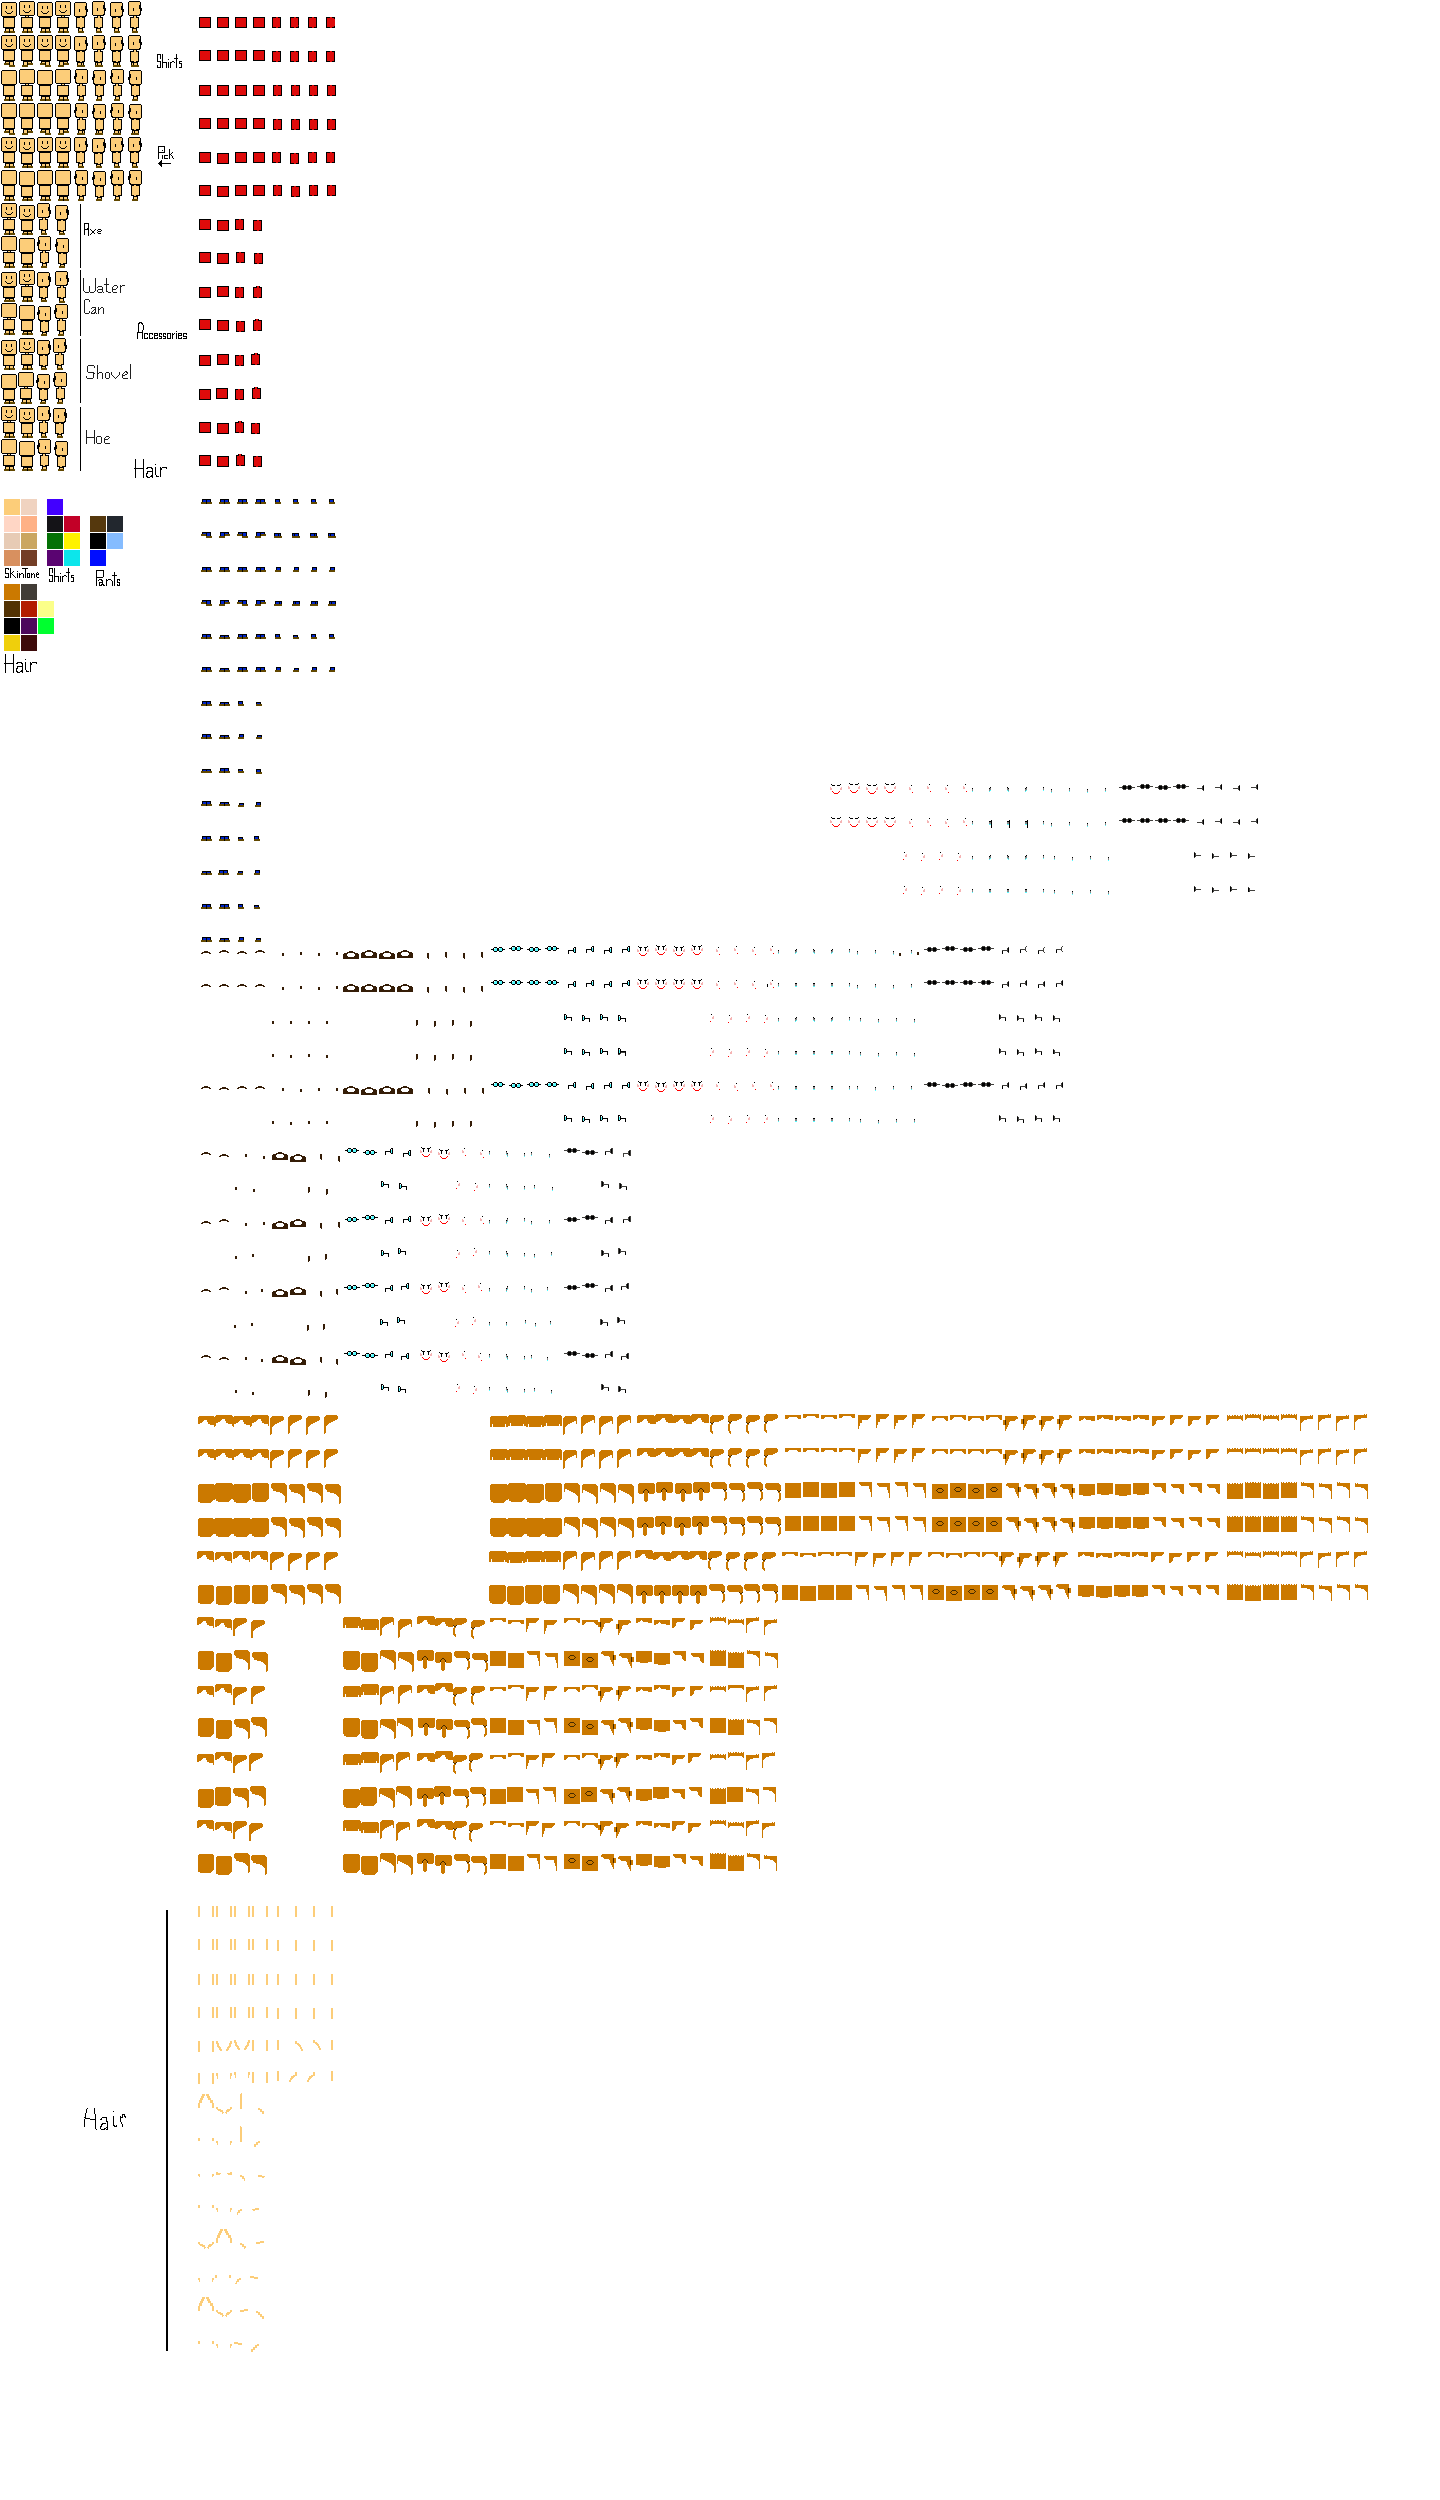
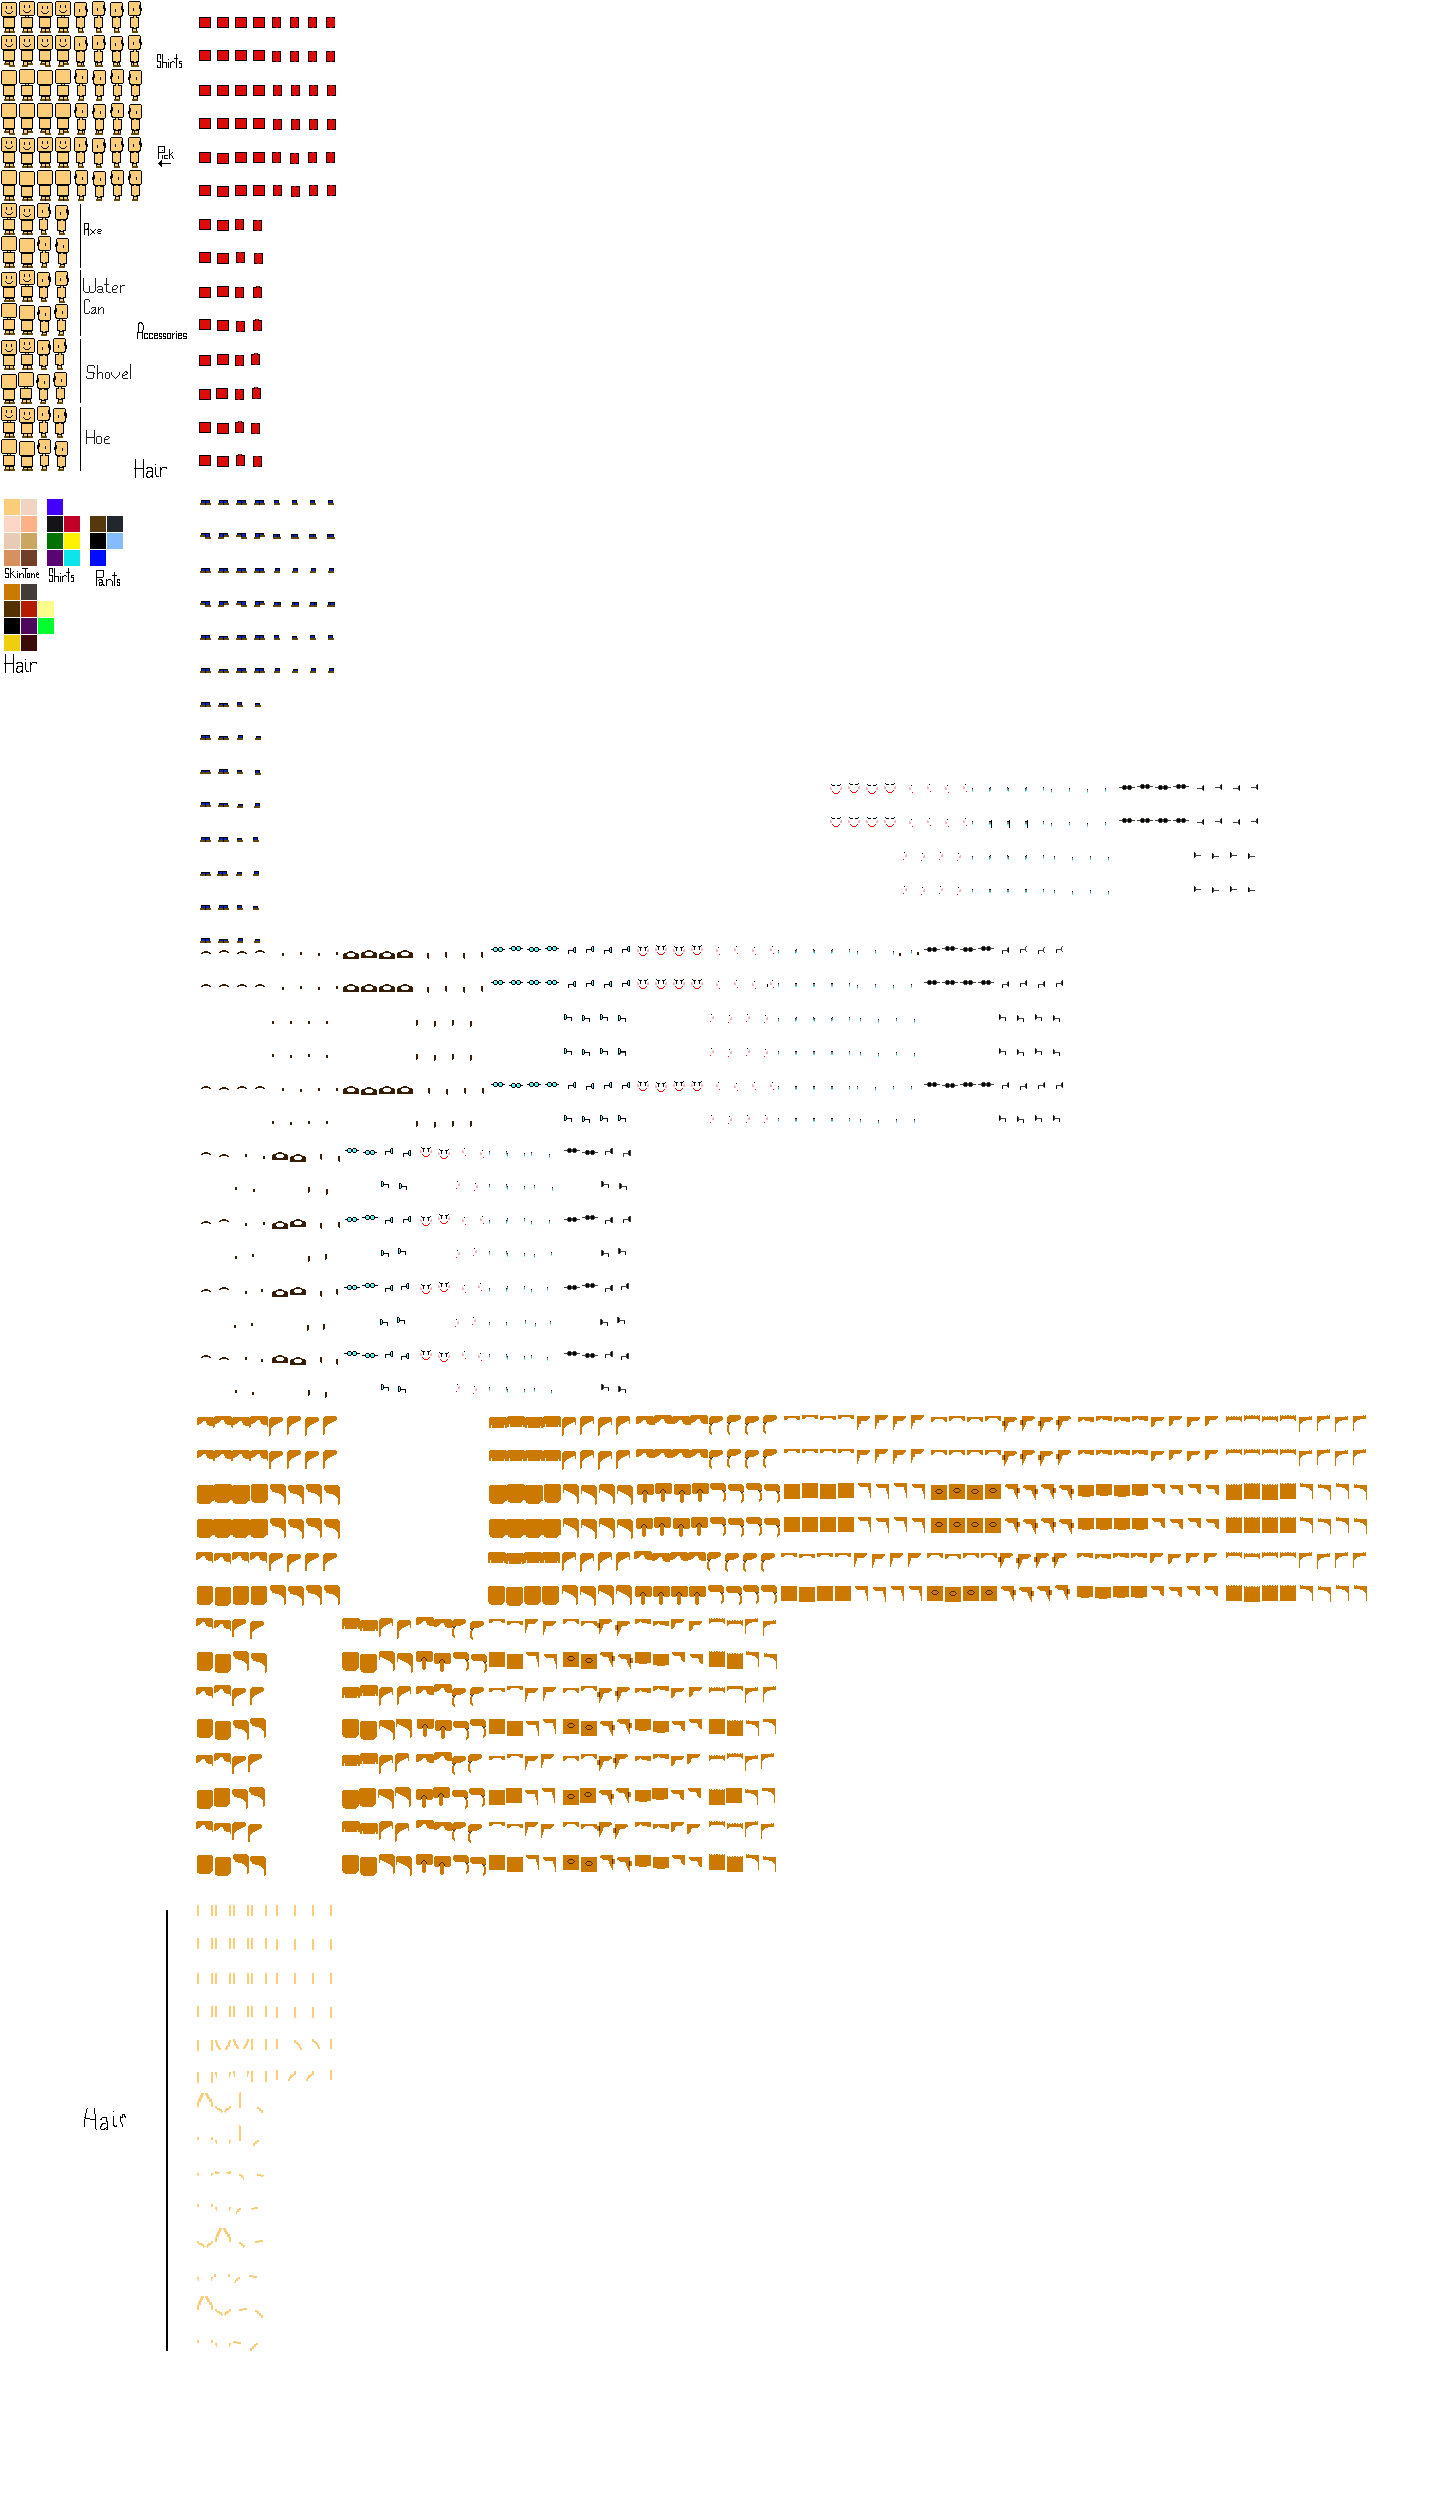
Start to transition to the Mt Doom of Player Sprites

diff --git a/src/globals/PlayerAnimations.js b/src/globals/PlayerAnimations.js
@@ -1,8 +1,8 @@
-import { Steve } from './Images.js'
+import { BasePlayer } from './Images.js'
 
 export const SteveIdleUp = {
   name: 'SteveIdleUp',
-  spritesheet: Steve,
+  spritesheet: BasePlayer,
   frames: [16, 17, 18, 19],
   frameWidth: 16,
   frameHeight: 32,
@@ -13,7 +13,7 @@ export const SteveIdleUp = {
 
 export const SteveIdleDown = {
   name: 'SteveIdleDown',
-  spritesheet: Steve,
+  spritesheet: BasePlayer,
   frames: [0, 1, 2, 3],
   frameWidth: 16,
   frameHeight: 32,
@@ -24,7 +24,7 @@ export const SteveIdleDown = {
 
 export const SteveIdleLeft = {
   name: 'SteveIdleLeft',
-  spritesheet: Steve,
+  spritesheet: BasePlayer,
   frames: [20, 21, 22, 23],
   frameWidth: 16,
   frameHeight: 32,
@@ -35,7 +35,7 @@ export const SteveIdleLeft = {
 
 export const SteveIdleRight = {
   name: 'SteveIdleRight',
-  spritesheet: Steve,
+  spritesheet: BasePlayer,
   frames: [4, 5, 6, 7],
   frameWidth: 16,
   frameHeight: 32,
@@ -46,7 +46,7 @@ export const SteveIdleRight = {
 
 export const SteveWalkUp = {
   name: 'SteveWalkUp',
-  spritesheet: Steve,
+  spritesheet: BasePlayer,
   frames: [24, 25, 26, 27],
   frameWidth: 16,
   frameHeight: 32,
@@ -57,7 +57,7 @@ export const SteveWalkUp = {
 
 export const SteveWalkDown = {
   name: 'SteveWalkDown',
-  spritesheet: Steve,
+  spritesheet: BasePlayer,
   frames: [8, 9, 10, 11],
   frameWidth: 16,
   frameHeight: 32,
@@ -68,7 +68,7 @@ export const SteveWalkDown = {
 
 export const SteveWalkLeft = {
   name: 'SteveWalkLeft',
-  spritesheet: Steve,
+  spritesheet: BasePlayer,
   frames: [28, 29, 30, 31],
   frameWidth: 16,
   frameHeight: 32,
@@ -79,7 +79,7 @@ export const SteveWalkLeft = {
 
 export const SteveWalkRight = {
   name: 'SteveWalkRight',
-  spritesheet: Steve,
+  spritesheet: BasePlayer,
   frames: [12, 13, 14, 15],
   frameWidth: 16,
   frameHeight: 32,

diff --git a/src/globals/PlayerImageData.js b/src/globals/PlayerImageData.js
@@ -2,7 +2,7 @@ export const PlayerBodySection = {
   x: 0,
   y: 0,
   width: 144,
-  height: 136,
+  height: 472,
   baseColor: [252, 205, 121, 250]
 }
 
@@ -10,15 +10,15 @@ export const PlayerDefaultShirtSection = {
   x: 196,
   y: 0,
   width: 144,
-  height: 136,
+  height: 472,
   baseColor: [222, 11, 11, 250]
 }
 
 export const PlayerDefaultPantsSection = {
   x: 196,
-  y: 135,
+  y: 472,
   width: 144,
-  height: 136,
+  height: 472,
   baseColor: [0, 37, 203, 250]
 }
 
@@ -26,23 +26,23 @@ export const PlayerDefaultAccessoriesSection = {
   x: 196,
   y: 281,
   width: 144,
-  height: 136,
+  height: 472,
   baseColor: [252, 205, 121, 250]
 }
 
 export const PlayerDefaultHairSection = {
   x: 196,
-  y: 421,
+  y: 1416,
   width: 144,
-  height: 136,
+  height: 472,
   baseColor: [203, 121, 0, 250]
 }
 
 export const PlayerDefaultArmsSection = {
   x: 196,
-  y: 551,
+  y: 1888,
   width: 144,
-  height: 136,
+  height: 472,
   baseColor: [252, 205, 121, 255]
 }
 

diff --git a/src/globals/Images.js b/src/globals/Images.js
@@ -1,7 +1,6 @@
 const Images = {
-  BasePlayer: '../../img/BasePlayer.png',
+  BasePlayer: '../../img/BasePlayer - Copy.png',
   ShortCrops: '../../img/ShortCrops.png',
-  Steve: '../../img/PlaceholderSteve.png',
   TallCrops: '../../img/TallCrops.png',
   TileSet: '../../img/tileset.png',
   Tools: '../../img/Tools.png',
@@ -13,7 +12,6 @@ export default Images
 export const {
   BasePlayer,
   ShortCrops,
-  Steve,
   TallCrops,
   TileSet,
   Tools,
